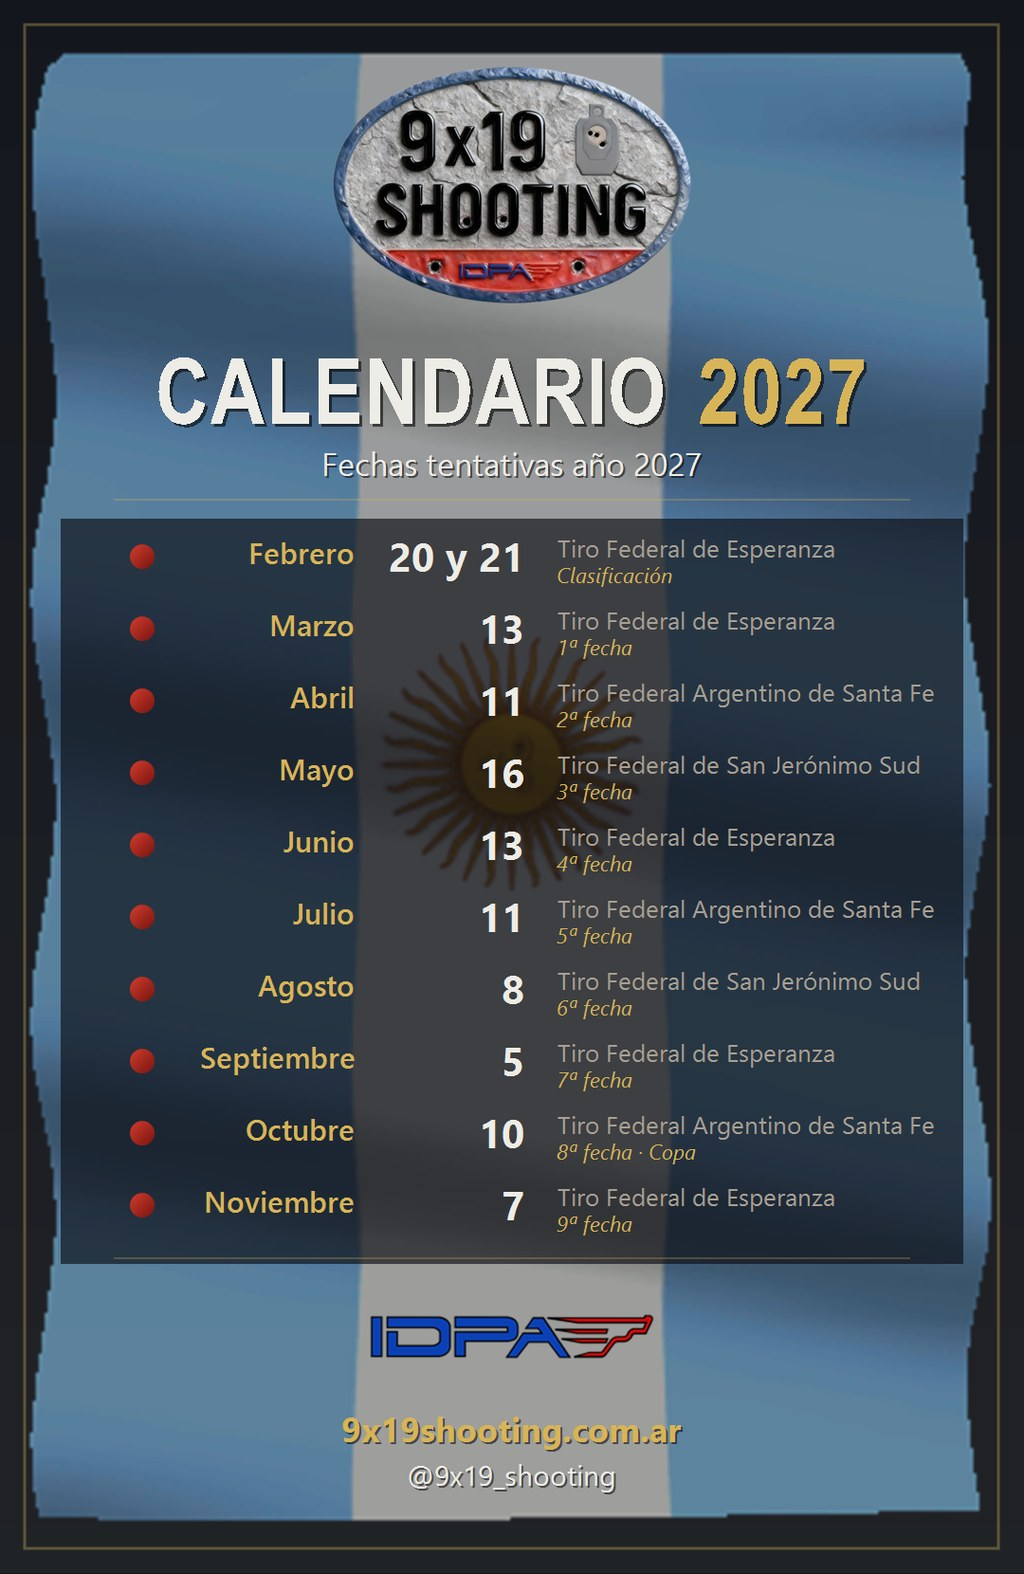
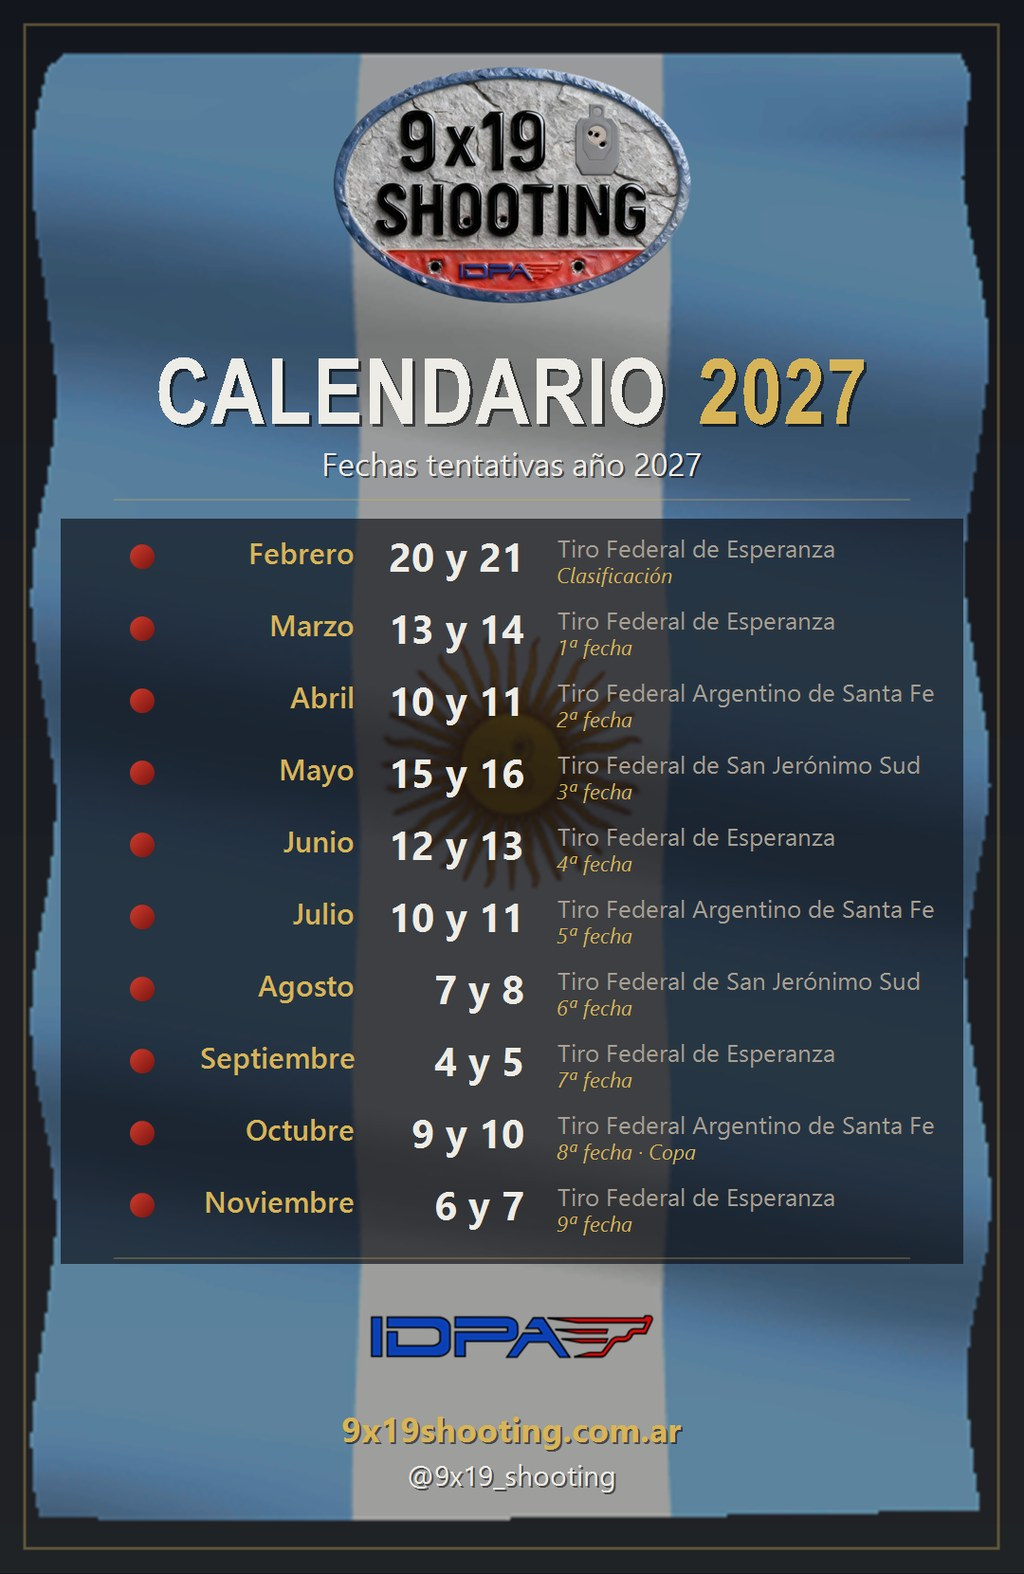
Cada fecha del 2027 es sábado y domingo
Las nueve venían con un solo día: el que me pasaron era el domingo —salvo
marzo, que era el sábado—, así que cada una lleva ahora su sábado y su
domingo. Febrero ya estaba completo.

diff --git a/index.html b/index.html
@@ -65,10 +65,10 @@
         </svg>
       </a>
 
-      <a class="aparte" href="assets/calendario-2027-animado.gif"
+      <a class="aparte" href="assets/calendario-2027-animado.gif?v=2"
          data-chico data-siempre-chico data-sin-zoom
-         data-imagen="assets/calendario-2027-animado.gif"
-         data-imagen-grande="assets/calendario-2027.jpg"
+         data-imagen="assets/calendario-2027-animado.gif?v=2"
+         data-imagen-grande="assets/calendario-2027.jpg?v=2"
          data-texto-imagen="Calendario 2027 del Club 9x19 Shooting con las fechas del año, sobre la bandera argentina flameando">
         <span aria-hidden="true">📅</span> Calendario 2027
       </a>
